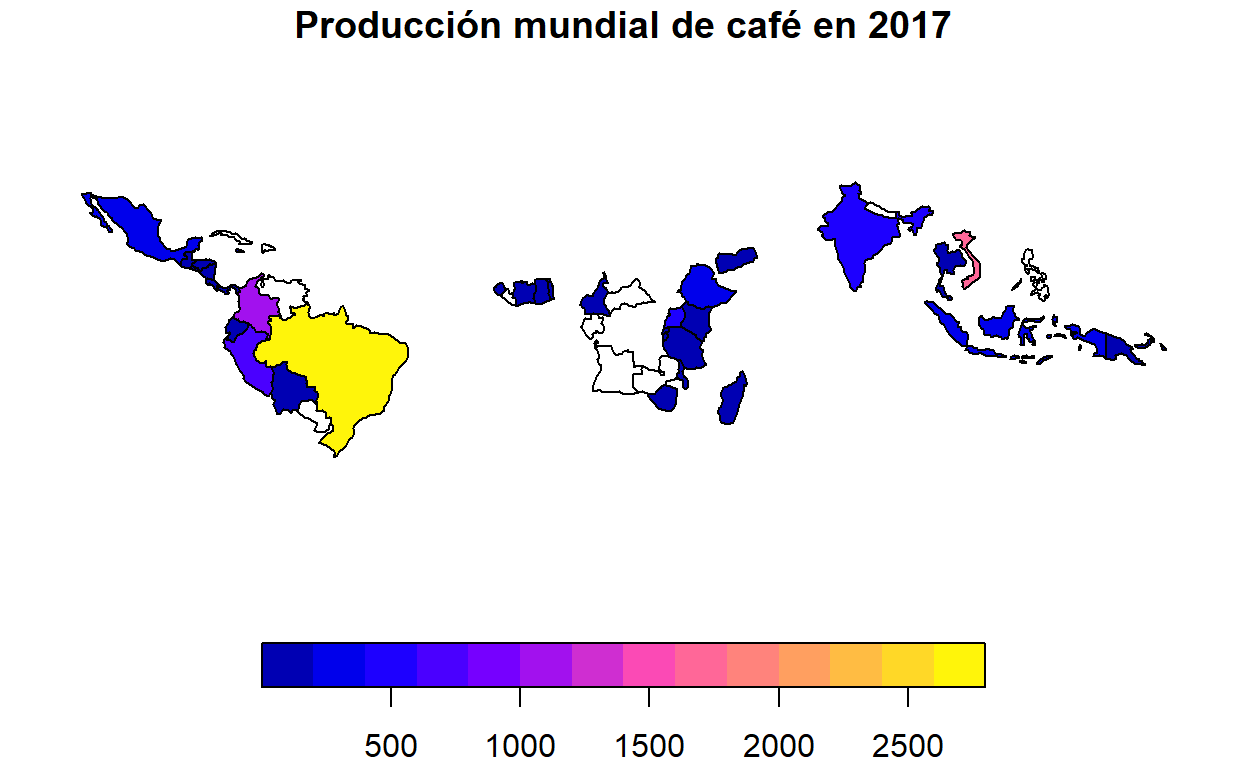
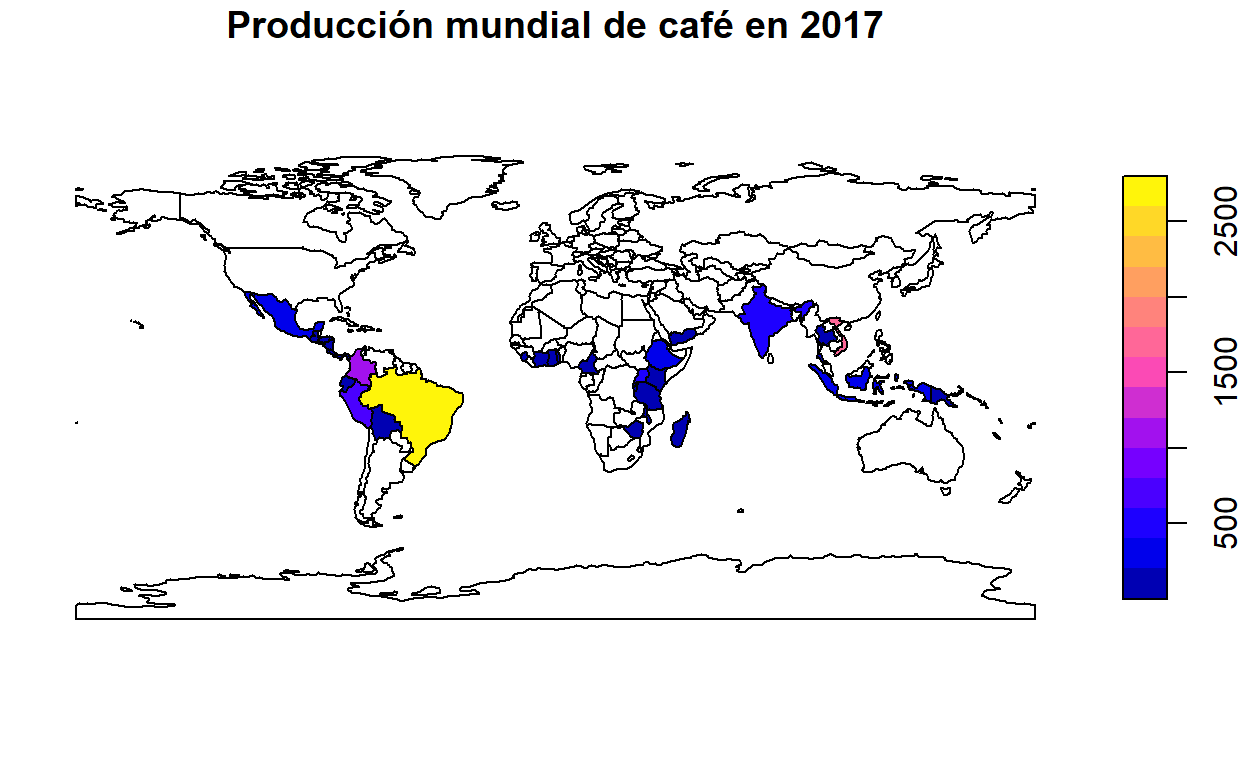
Modificar sección de atributos

diff --git a/docs/02-r-operaciones-atributos.html b/docs/02-r-operaciones-atributos.html
@@ -2489,7 +2489,6 @@ code span.wa { color: #5e5e5e; font-style: italic; } /* Warning */
 <pre class="sourceCode r"><code class="sourceCode r"><span class='kw'><a href='https://rdrr.io/r/base/library.html'>library</a></span><span class='op'>(</span><span class='va'><a href='https://r-spatial.github.io/sf/'>sf</a></span><span class='op'>)</span>
 <span class='kw'><a href='https://rdrr.io/r/base/library.html'>library</a></span><span class='op'>(</span><span class='va'><a href='https://rstudio.github.io/leaflet/'>leaflet</a></span><span class='op'>)</span>
 <span class='kw'><a href='https://rdrr.io/r/base/library.html'>library</a></span><span class='op'>(</span><span class='va'><a href='https://dplyr.tidyverse.org'>dplyr</a></span><span class='op'>)</span>
-<span class='kw'><a href='https://rdrr.io/r/base/library.html'>library</a></span><span class='op'>(</span><span class='va'><a href='https://nowosad.github.io/spData/'>spData</a></span><span class='op'>)</span>
 </code></pre>
 </div>
 </div>
@@ -2504,8 +2503,12 @@ code span.wa { color: #5e5e5e; font-style: italic; } /* Warning */
     <span class='st'>"https://raw.githubusercontent.com/gf0604-procesamientodatosgeograficos/2021i-datos/main/ign/delimitacion-territorial-administrativa/cr_provincias_simp_wgs84.geojson"</span>,
     quiet <span class='op'>=</span> <span class='cn'>TRUE</span>
   <span class='op'>)</span>
+
+<span class='co'># Mapeo</span>
+<span class='fu'><a href='https://r-spatial.github.io/sf/reference/plot.html'>plot</a></span><span class='op'>(</span><span class='va'>provincias</span><span class='op'>$</span><span class='va'>geometry</span><span class='op'>)</span>
 </code></pre>
 </div>
+<p><img src="02-r-operaciones-atributos_files/figure-html5/unnamed-chunk-2-1.png" width="624" /></p>
 </div>
 <strong>Cantones de Costa Rica</strong><br />
 
@@ -2517,11 +2520,23 @@ code span.wa { color: #5e5e5e; font-style: italic; } /* Warning */
     <span class='st'>"https://raw.githubusercontent.com/gf0604-procesamientodatosgeograficos/2021i-datos/main/ign/delimitacion-territorial-administrativa/cr_cantones_simp_wgs84.geojson"</span>,
     quiet <span class='op'>=</span> <span class='cn'>TRUE</span>
   <span class='op'>)</span>
+
+<span class='co'># Mapeo</span>
+<span class='fu'><a href='https://r-spatial.github.io/sf/reference/plot.html'>plot</a></span><span class='op'>(</span><span class='va'>cantones</span><span class='op'>$</span><span class='va'>geometry</span><span class='op'>)</span>
+</code></pre>
+</div>
+<p><img src="02-r-operaciones-atributos_files/figure-html5/unnamed-chunk-3-1.png" width="624" /></p>
+</div>
+<strong>Conjuntos de datos de ejemplo para análisis espacial</strong><br />
+
+<div class="layout-chunk" data-layout="l-body">
+<div class="sourceCode">
+<pre class="sourceCode r"><code class="sourceCode r"><span class='co'># Carga del paquete spData</span>
+<span class='kw'><a href='https://rdrr.io/r/base/library.html'>library</a></span><span class='op'>(</span><span class='va'><a href='https://nowosad.github.io/spData/'>spData</a></span><span class='op'>)</span>
 </code></pre>
 </div>
 </div>
-<p><strong>Conjuntos de datos de ejemplo para análisis espacial</strong><br />
-- Documentación de <a href="https://nowosad.github.io/spData/">spData</a>.</p>
+<p>Documentación del paquete spData: <a href="https://nowosad.github.io/spData/">Datasets for Spatial Analysis - spData</a>.</p>
 <h1 id="introducción">Introducción</h1>
 <p>Se les llama atributos a los elementos de datos no espaciales de un conjunto de datos geográficos. Un conjunto de datos vectoriales puede tener asociados varios campos de atributos, mientras que un conjunto de datos raster tiene solamente uno.</p>
 <h1 id="datos-vectoriales">Datos vectoriales</h1>
@@ -2593,13 +2608,13 @@ see &#39;?methods&#39; for accessing help and source code</code></pre>
 </div>
 <pre><code>[1] 82 10</code></pre>
 <div class="sourceCode">
-<pre class="sourceCode r"><code class="sourceCode r"><span class='co'># Cantidad de filas</span>
+<pre class="sourceCode r"><code class="sourceCode r"><span class='co'># Cantidad de filas (i.e. observaciones)</span>
 <span class='fu'><a href='https://rdrr.io/r/base/nrow.html'>nrow</a></span><span class='op'>(</span><span class='va'>cantones</span><span class='op'>)</span>
 </code></pre>
 </div>
 <pre><code>[1] 82</code></pre>
 <div class="sourceCode">
-<pre class="sourceCode r"><code class="sourceCode r"><span class='co'># Cantidad de columnas</span>
+<pre class="sourceCode r"><code class="sourceCode r"><span class='co'># Cantidad de columnas (i.e. variables)</span>
 <span class='fu'><a href='https://rdrr.io/r/base/nrow.html'>ncol</a></span><span class='op'>(</span><span class='va'>cantones</span><span class='op'>)</span>
 </code></pre>
 </div>
@@ -2646,7 +2661,7 @@ see &#39;?methods&#39; for accessing help and source code</code></pre>
 <p>También es posible ocultar la columna de geometría de un conjunto de datos (sin borrarla) mediante el argumento <code>drop = TRUE</code>.</p>
 <div class="layout-chunk" data-layout="l-body">
 <div class="sourceCode">
-<pre class="sourceCode r"><code class="sourceCode r"><span class='co'># Sin drop=TRUE</span>
+<pre class="sourceCode r"><code class="sourceCode r"><span class='co'># Sin drop = TRUE</span>
 <span class='va'>cantones</span><span class='op'>[</span><span class='fl'>1</span><span class='op'>:</span><span class='fl'>10</span>, <span class='fu'><a href='https://rdrr.io/r/base/c.html'>c</a></span><span class='op'>(</span><span class='st'>"canton"</span>, <span class='st'>"area"</span><span class='op'>)</span><span class='op'>]</span>
 </code></pre>
 </div>
@@ -2667,7 +2682,7 @@ Geodetic CRS:  WGS 84
 9        Parrita  483.22 MULTIPOLYGON (((-84.30298 9...
 10       Tarrazú  291.27 MULTIPOLYGON (((-83.98178 9...</code></pre>
 <div class="sourceCode">
-<pre class="sourceCode r"><code class="sourceCode r"><span class='co'># Con drop=TRUE</span>
+<pre class="sourceCode r"><code class="sourceCode r"><span class='co'># Con drop = TRUE</span>
 <span class='va'>cantones</span><span class='op'>[</span><span class='fl'>1</span><span class='op'>:</span><span class='fl'>10</span>, <span class='fu'><a href='https://rdrr.io/r/base/c.html'>c</a></span><span class='op'>(</span><span class='st'>"canton"</span>, <span class='st'>"area"</span><span class='op'>)</span>, drop<span class='op'>=</span><span class='cn'>TRUE</span><span class='op'>]</span>
 </code></pre>
 </div>
@@ -2700,7 +2715,7 @@ Geodetic CRS:  WGS 84
 </ul>
 <h4 id="notaciones-y-funciones-del-paquete-base">Notaciones y funciones del paquete base</h4>
 <h5 id="la-notación-de-y">La notación de <code>[]</code> y <code>$</code></h5>
-<p>La notación de paréntesis cuadrados (<code>[]</code>) y el signo de dólar (<code>$</code>) permite crear subconjuntos con base en la posición de filas y de columnas, por medio de nombres de columnas y a través de la especificación de condiciones (i.e. expresiones <em>booleanas</em>).</p>
+<p>La notación de paréntesis cuadrados (<code>[]</code>) y el signo de dólar (<code>$</code>) permite crear subconjuntos con base en la posición de filas y de columnas, por medio de nombres de columnas y a través de la especificación de condiciones (i.e. expresiones lógicas).</p>
 <div class="layout-chunk" data-layout="l-body">
 <div class="sourceCode">
 <pre class="sourceCode r"><code class="sourceCode r"><span class='co'># Subconjunto especificado por posiciones de filas</span>
@@ -2787,8 +2802,8 @@ Geodetic CRS:  WGS 84
 <div class="layout-chunk" data-layout="l-body">
 <div class="sourceCode">
 <pre class="sourceCode r"><code class="sourceCode r"><span class='co'># Selección de columnas</span>
-<span class='fu'><a href='https://dplyr.tidyverse.org/reference/select.html'>select</a></span><span class='op'>(</span><span class='va'>cantones</span>,
-       <span class='va'>canton</span>, <span class='va'>provincia</span><span class='op'>)</span>
+<span class='va'>cantones</span> <span class='op'>%&gt;%</span>
+  <span class='fu'><a href='https://dplyr.tidyverse.org/reference/select.html'>select</a></span><span class='op'>(</span><span class='va'>canton</span>, <span class='va'>provincia</span><span class='op'>)</span>
 </code></pre>
 </div>
 <pre><code>Simple feature collection with 82 features and 2 fields
@@ -2809,9 +2824,9 @@ First 10 features:
 9        Parrita Puntarenas MULTIPOLYGON (((-84.30298 9...
 10       Tarrazú   San José MULTIPOLYGON (((-83.98178 9...</code></pre>
 <div class="sourceCode">
-<pre class="sourceCode r"><code class="sourceCode r"><span class='co'># Selección de columnas y renombramiento de la columna area</span>
-<span class='fu'><a href='https://dplyr.tidyverse.org/reference/select.html'>select</a></span><span class='op'>(</span><span class='va'>cantones</span>,
-       <span class='va'>canton</span>, area_km2 <span class='op'>=</span> <span class='va'>area</span>, <span class='va'>provincia</span><span class='op'>)</span>
+<pre class="sourceCode r"><code class="sourceCode r"><span class='co'># Selección y cambio de nombre de columnas</span>
+<span class='va'>cantones</span> <span class='op'>%&gt;%</span>
+  <span class='fu'><a href='https://dplyr.tidyverse.org/reference/select.html'>select</a></span><span class='op'>(</span><span class='va'>canton</span>, area_km2 <span class='op'>=</span> <span class='va'>area</span>, <span class='va'>provincia</span><span class='op'>)</span>
 </code></pre>
 </div>
 <pre><code>Simple feature collection with 82 features and 3 fields
@@ -2833,24 +2848,22 @@ First 10 features:
 10       Tarrazú   291.27   San José MULTIPOLYGON (((-83.98178 9...</code></pre>
 </div>
 <h5 id="la-función-slice">La función slice()</h5>
-<p><a href="https://dplyr.tidyverse.org/reference/slice.html">slice()</a> es el equivalente de <code>select()</code> para filas.</p>
+<p><a href="https://dplyr.tidyverse.org/reference/slice.html">slice()</a> es el equivalente de <code>select()</code> para filas. Crea un subconjunto con base en las posiciones de las filas.</p>
 <div class="layout-chunk" data-layout="l-body">
 <div class="sourceCode">
 <pre class="sourceCode r"><code class="sourceCode r"><span class='co'># Subconjunto especificado mediante un rango de filas</span>
-<span class='fu'><a href='https://dplyr.tidyverse.org/reference/slice.html'>slice</a></span><span class='op'>(</span>
-  <span class='va'>cantones</span>, 
-  <span class='fl'>1</span><span class='op'>:</span><span class='fl'>10</span>
-<span class='op'>)</span>
+<span class='va'>cantones</span> <span class='op'>%&gt;%</span>
+  <span class='fu'><a href='https://dplyr.tidyverse.org/reference/slice.html'>slice</a></span><span class='op'>(</span><span class='fl'>1</span><span class='op'>:</span><span class='fl'>10</span><span class='op'>)</span>
 </code></pre>
 </div>
 </div>
 <h5 id="la-función-filter">La función filter()</h5>
-<p>La función <a href="https://dplyr.tidyverse.org/reference/filter.html">filter()</a> es el equivalente en <code>dplyr</code> de la función <code>subset()</code> del paquete <code>base</code>. Retorna los registros que cumplen con una condición:</p>
+<p>La función <a href="https://dplyr.tidyverse.org/reference/filter.html">filter()</a> es el equivalente en dplyr de la función <code>subset()</code> del paquete <code>base</code>. Retorna los registros que cumplen con una condición.</p>
 <div class="layout-chunk" data-layout="l-body">
 <div class="sourceCode">
 <pre class="sourceCode r"><code class="sourceCode r"><span class='co'># Androides de "La Guerra de las Galaxias"</span>
-<span class='fu'><a href='https://dplyr.tidyverse.org/reference/filter.html'>filter</a></span><span class='op'>(</span><span class='va'>starwars</span>,
-       <span class='va'>species</span> <span class='op'>==</span> <span class='st'>"Droid"</span><span class='op'>)</span>
+<span class='va'>starwars</span> <span class='op'>%&gt;%</span>
+  <span class='fu'><a href='https://dplyr.tidyverse.org/reference/filter.html'>filter</a></span><span class='op'>(</span><span class='va'>species</span> <span class='op'>==</span> <span class='st'>"Droid"</span><span class='op'>)</span>
 </code></pre>
 </div>
 <pre><code># A tibble: 6 x 14
@@ -2865,7 +2878,7 @@ First 10 features:
 # ... with 6 more variables: gender &lt;chr&gt;, homeworld &lt;chr&gt;,
 #   species &lt;chr&gt;, films &lt;list&gt;, vehicles &lt;list&gt;, starships &lt;list&gt;</code></pre>
 </div>
-<p>Las funciones del paquete <code>dplyr</code> suelen ser utilizadas conjuntamente con el <a href="http://r4ds.had.co.nz/pipes.html">operador <em>pipe</em> (%&gt;%)</a>, el cual posibilita el “encadenamiento” de funciones: la salida de la función previa se convierte en el primer argumento de la siguiente función. En el siguiente ejemplo, el conjunto de datos <a href="https://dplyr.tidyverse.org/reference/starwars.html">starwars</a> se pasa como entrada a la función <code>filter()</code>, para filtrar los personajes humanos. Seguidamente, el resultado se pasa a la función <code>select()</code>, para seleccionar las columnas <code>name</code>, <code>homeworld</code> y <code>species</code>. Finalmente, la función <code>slice()</code> reduce el resultado a las 10 primeras filas.</p>
+<p>Las funciones del paquete dplyr suelen ser utilizadas conjuntamente con el <a href="http://r4ds.had.co.nz/pipes.html">operador <em>pipe</em> (%&gt;%)</a>, el cual posibilita el “encadenamiento” de funciones: la salida de la función previa se convierte en el primer argumento de la siguiente función. En el siguiente ejemplo, el conjunto de datos <a href="https://dplyr.tidyverse.org/reference/starwars.html">starwars</a> se pasa como entrada a la función <code>filter()</code>, para filtrar los personajes humanos. Seguidamente, el resultado se pasa a la función <code>select()</code>, para seleccionar las columnas <code>name</code>, <code>homeworld</code> y <code>species</code>. Finalmente, la función <code>slice()</code> reduce el resultado a las 10 primeras filas.</p>
 <div class="layout-chunk" data-layout="l-body">
 <div class="sourceCode">
 <pre class="sourceCode r"><code class="sourceCode r"><span class='co'># Encadenamiento de funciones mediante pipe (%&gt;%)</span>
@@ -2919,6 +2932,7 @@ First 10 features:
  9 Wilhuff Tarkin     Eriadu    Human  
 10 Han Solo           Corellia  Human  </code></pre>
 </div>
+<p><strong>Ejercicio: mediante las funciones <code>select()</code> y <code>filter()</code> de dplyr, cree un nuevo objeto <code>sf</code> que contenga los cantones de Puntarenas y Guanacaste con área mayor o igual a 2000 km2. Incluya las columnas de provincia, cantón y área.</strong></p>
 <h3 id="agregación-de-datos">Agregación de datos</h3>
 <p>Las operaciones de agregación realizan cálculos (suma, promedio, etc.) a partir de la agrupación de valores de variables. En esta sección, se explican funciones de agregación contenidas en los paquetes <code>stats</code>, <code>sf</code> y <code>dplyr</code>, las cuales son:</p>
 <ul>
@@ -3050,8 +3064,9 @@ Geodetic CRS:  WGS 84
 2 Guanacaste 10196.                11
 3 Alajuela    9772.                16</code></pre>
 </div>
+<p><strong>Ejercicio: mediante <code>summarize()</code>, y otras funciones de dplyr, despliegue el área y la cantidad de cantones de las dos provincias más pequeñas.</strong></p>
 <h3 id="cruce-de-datos">Cruce de datos</h3>
-<p>La combinación de datos ubicados en diferentes fuentes es una tarea común en análisis de información. Este tipo de operaciones se realizan con base en atributos que son comunes en los conjuntos de datos que se desea cruzar. El paquete <code>dplyr</code> proporciona varias <a href="https://dplyr.tidyverse.org/reference/join.html">funciones para realizar cruces de datos</a>, entre las que se encuentran:</p>
+<p>La combinación de datos ubicados en diferentes fuentes es una tarea común en análisis de información. Este tipo de operaciones se realizan con base en atributos que son comunes en los conjuntos de datos que se desea cruzar. El paquete dplyr proporciona varias <a href="https://dplyr.tidyverse.org/reference/join.html">funciones para realizar cruces de datos</a>, entre las que se encuentran:</p>
 <ul>
 <li>La función <code>left_join()</code></li>
 <li>La función <code>inner_join()</code></li>
@@ -3061,26 +3076,26 @@ Geodetic CRS:  WGS 84
 <div class="layout-chunk" data-layout="l-body">
 <div class="sourceCode">
 <pre class="sourceCode r"><code class="sourceCode r"><span class='co'># "Join" de los datos de producción de café. Ambas tablas comparten la columna name_long.</span>
-<span class='va'>world_coffee_1</span> <span class='op'>&lt;-</span> <span class='fu'><a href='https://dplyr.tidyverse.org/reference/mutate-joins.html'>left_join</a></span><span class='op'>(</span><span class='va'>world</span>, <span class='va'>coffee_data</span><span class='op'>)</span>
+<span class='va'>productores_cafe_1</span> <span class='op'>&lt;-</span> <span class='fu'><a href='https://dplyr.tidyverse.org/reference/mutate-joins.html'>left_join</a></span><span class='op'>(</span><span class='va'>world</span>, <span class='va'>coffee_data</span><span class='op'>)</span>
 
 <span class='co'># Mapeo de la producción de café en 2017</span>
-<span class='fu'><a href='https://r-spatial.github.io/sf/reference/plot.html'>plot</a></span><span class='op'>(</span><span class='va'>world_coffee_1</span><span class='op'>[</span><span class='st'>"coffee_production_2017"</span><span class='op'>]</span>, main<span class='op'>=</span><span class='st'>"Producción mundial de café en 2017"</span><span class='op'>)</span>
+<span class='fu'><a href='https://r-spatial.github.io/sf/reference/plot.html'>plot</a></span><span class='op'>(</span><span class='va'>productores_cafe_1</span><span class='op'>[</span><span class='st'>"coffee_production_2017"</span><span class='op'>]</span>, main<span class='op'>=</span><span class='st'>"Producción mundial de café en 2017"</span><span class='op'>)</span>
 </code></pre>
 </div>
-<p><img src="02-r-operaciones-atributos_files/figure-html5/unnamed-chunk-22-1.png" width="624" /></p>
+<p><img src="02-r-operaciones-atributos_files/figure-html5/unnamed-chunk-23-1.png" width="624" /></p>
 </div>
 <h4 id="la-función-inner_join">La función inner_join()</h4>
 <p>La función <code>inner_join()</code> retorna solamente aquellos registros que coinciden en ambas tablas.</p>
 <div class="layout-chunk" data-layout="l-body">
 <div class="sourceCode">
 <pre class="sourceCode r"><code class="sourceCode r"><span class='co'># "Join" de los datos de producción de café. Ambas tablas comparten la columna name_long.</span>
-<span class='va'>world_coffee_2</span> <span class='op'>&lt;-</span> <span class='fu'><a href='https://dplyr.tidyverse.org/reference/mutate-joins.html'>inner_join</a></span><span class='op'>(</span><span class='va'>world</span>, <span class='va'>coffee_data</span><span class='op'>)</span>
+<span class='va'>productores_cafe_2</span> <span class='op'>&lt;-</span> <span class='fu'><a href='https://dplyr.tidyverse.org/reference/mutate-joins.html'>inner_join</a></span><span class='op'>(</span><span class='va'>world</span>, <span class='va'>coffee_data</span><span class='op'>)</span>
 
 <span class='co'># Mapeo de la producción de café en 2017</span>
-<span class='fu'><a href='https://r-spatial.github.io/sf/reference/plot.html'>plot</a></span><span class='op'>(</span><span class='va'>world_coffee_2</span><span class='op'>[</span><span class='st'>"coffee_production_2017"</span><span class='op'>]</span>, main<span class='op'>=</span><span class='st'>"Producción mundial de café en 2017"</span><span class='op'>)</span>
+<span class='fu'><a href='https://r-spatial.github.io/sf/reference/plot.html'>plot</a></span><span class='op'>(</span><span class='va'>productores_cafe_2</span><span class='op'>[</span><span class='st'>"coffee_production_2017"</span><span class='op'>]</span>, main<span class='op'>=</span><span class='st'>"Producción mundial de café en 2017"</span><span class='op'>)</span>
 </code></pre>
 </div>
-<p><img src="02-r-operaciones-atributos_files/figure-html5/unnamed-chunk-23-1.png" width="624" /></p>
+<p><img src="02-r-operaciones-atributos_files/figure-html5/unnamed-chunk-24-1.png" width="624" /></p>
 </div>
 <div class="sourceCode" id="cb25"><pre class="sourceCode r distill-force-highlighting-css"><code class="sourceCode r"></code></pre></div>
 <!--radix_placeholder_article_footer-->
